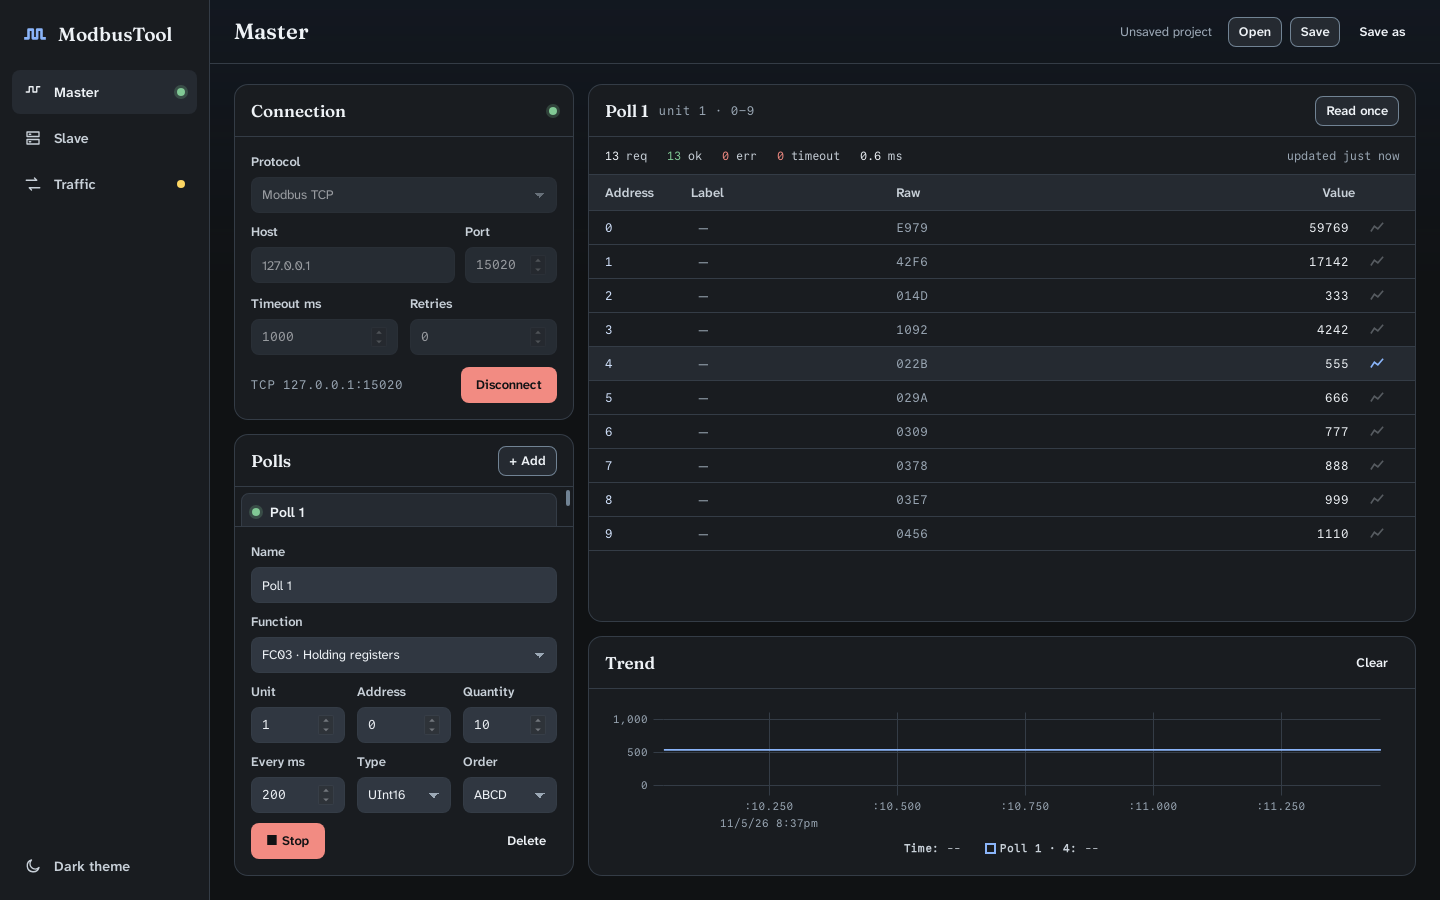
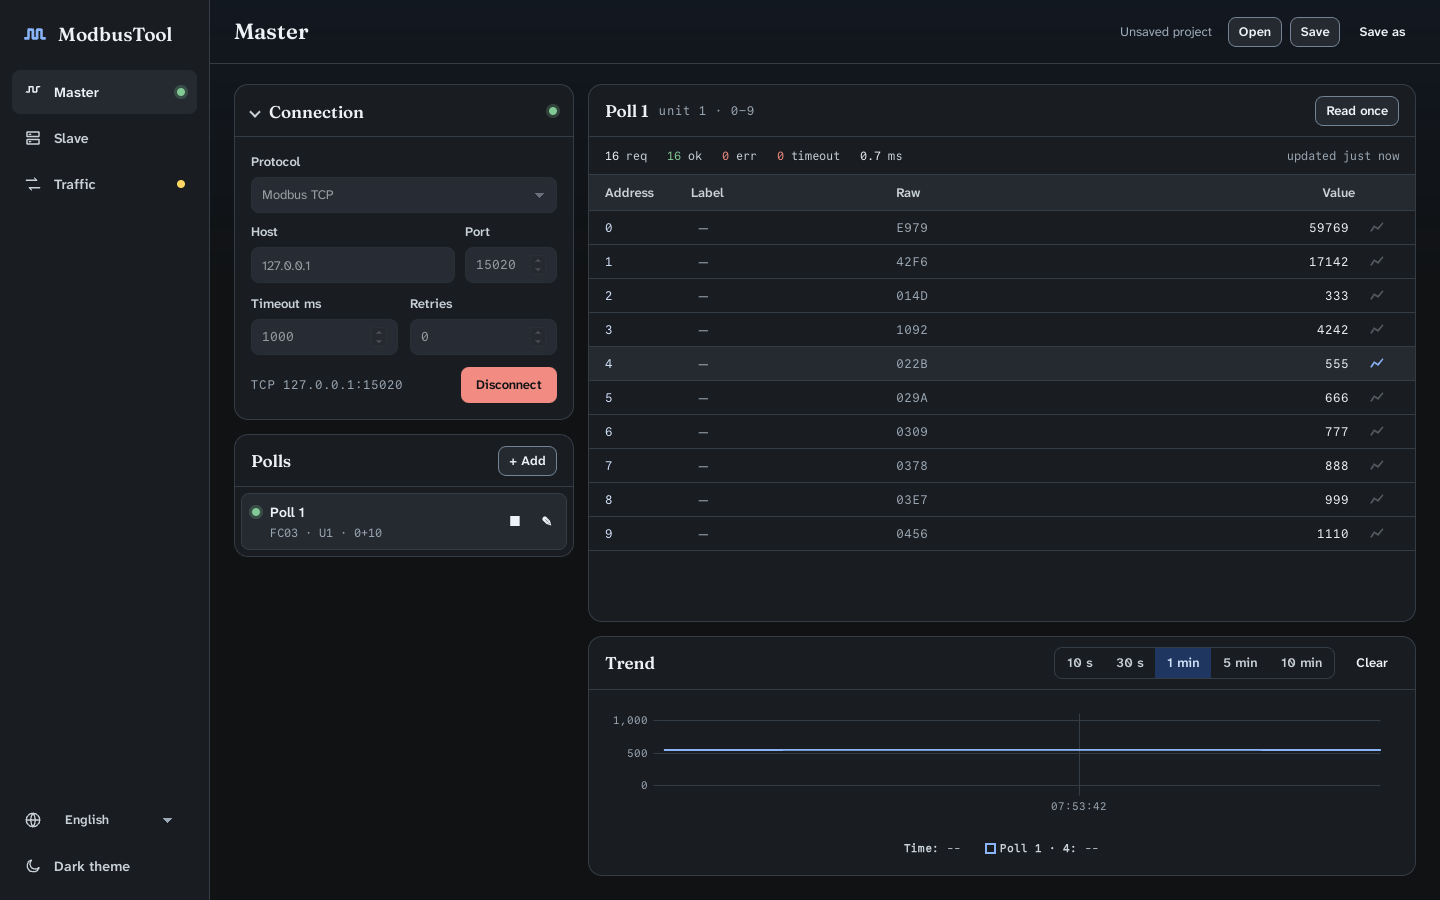
feat(trend): stepped samples, time window and a 24-hour time axis
A polled value holds until the next sample, but the chart joined samples
with straight lines: a square wave read once per level became a
triangle (user screenshot). Series are now drawn with uPlot's stepped
path builder.

The trend header offers a time window from 10 s to 10 min. History is
kept by time (10 minutes, the widest window) instead of 600 samples,
which at 200 ms lasted only 2 minutes. The time axis shows HH:MM:SS in
the interface language, with ticks on whole seconds so labels never
repeat. README screenshots regenerated by the E2E run.

Claude-Session: https://claude.ai/code/session_013Rdii6QU3MVeyCefPEk5AL

diff --git a/src/lib/components/TrendChart.svelte b/src/lib/components/TrendChart.svelte
@@ -8,6 +8,7 @@
 
   let host: HTMLDivElement;
   let plot: uPlot | null = null;
+  let clock: Intl.DateTimeFormat;
 
   const PALETTE_VARS = ["--color-ring", "--color-success", "--color-warning", "--color-danger", "--color-text-muted"];
 
@@ -26,7 +27,17 @@
     return uPlot.join(master.trend.map((s) => [s.times, s.values] as uPlot.AlignedData));
   }
 
+  const stepped = uPlot.paths.stepped!({ align: 1 });
+  // Tick steps in whole seconds: labels are HH:MM:SS, so finer steps would repeat a label.
+  const CLOCK_STEPS_S = [1, 2, 5, 10, 15, 30, 60, 120, 300, 600];
+
   function build() {
+    clock = new Intl.DateTimeFormat(currentLocale(), {
+      hour: "2-digit",
+      minute: "2-digit",
+      second: "2-digit",
+      hourCycle: "h23",
+    });
     plot?.destroy();
     const colors = palette();
     const style = getComputedStyle(document.documentElement);
@@ -44,18 +55,32 @@
         height: plotHeight(),
         legend: { show: true },
         cursor: { drag: { x: true, y: false } },
-        scales: { x: { time: true } },
+        scales: {
+          // The newest sample at the right edge, the chosen window to its left.
+          x: {
+            time: true,
+            range: (_u, min, max) => (max == null ? [min, max] : [Math.max(min, max - master.trendWindowS), max]),
+          },
+        },
         axes: [
-          { ...axis, space: 110 },
+          {
+            ...axis,
+            space: 90,
+            incrs: CLOCK_STEPS_S,
+            values: (_u, splits) => splits.map((t) => clock.format(t * 1000)),
+          },
           { ...axis, size: 64 },
         ],
         series: [
-          { label: m.trend_time() },
+          { label: m.trend_time(), value: (_u, t) => (t == null ? "--" : clock.format(t * 1000)) },
           ...master.trend.map((s, i) => ({
             label: s.label,
             stroke: colors[i % colors.length],
             width: 1.8,
             spanGaps: true,
+            // A polled value holds until the next sample: lines between samples would turn a
+            // square wave sampled once per level into a triangle.
+            paths: stepped,
             points: { show: false },
           })),
         ],
@@ -65,8 +90,10 @@
     );
   }
 
-  // Rebuild when the series, the theme or the language change; otherwise just push new data.
-  const signature = $derived(master.trend.map((s) => s.key).join("|") + app.theme + currentLocale());
+  // Rebuild when the series, the theme, the language or the window change; otherwise push new data.
+  const signature = $derived(
+    [master.trend.map((s) => s.key).join("|"), app.theme, currentLocale(), master.trendWindowS].join(" "),
+  );
   $effect(() => {
     void signature;
     untrack(build);

diff --git a/src/lib/state.test.ts b/src/lib/state.test.ts
@@ -13,7 +13,7 @@ import {
   toggleTrend,
   traffic,
   TRAFFIC_LIMIT,
-  TREND_POINTS,
+  TREND_RETENTION_S,
 } from "./state.svelte";
 
 const poll = (over: Partial<PollConfig> = {}): PollConfig => ({
@@ -39,9 +39,9 @@ const event = (n: number): TrafficEvent => ({
   message: null,
 });
 
-const result = (values: number[] | null, error: string | null = null, timeout = false) => ({
+const result = (values: number[] | null, error: string | null = null, timeout = false, timestampMs = 1000) => ({
   id: "p",
-  timestampMs: 1000,
+  timestampMs,
   values,
   error,
   timeout,
@@ -81,8 +81,11 @@ describe("state", () => {
     app.project.master.polls = [poll({ dataType: "int32" })];
     master.runtime.p = emptyRuntime(true);
     toggleTrend("p", 2, "x");
-    for (let i = 0; i < TREND_POINTS + 3; i++) applyPollResults([result([0, 0, 0xffff, 0xffff])]);
-    expect(master.trend[0].values).toHaveLength(TREND_POINTS);
+    // One sample a second for longer than the retention: only the last TREND_RETENTION_S remain.
+    for (let s = 0; s <= TREND_RETENTION_S + 5; s++)
+      applyPollResults([result([0, 0, 0xffff, 0xffff], null, false, s * 1000)]);
+    expect(master.trend[0].times[0]).toBe(5);
+    expect(master.trend[0].times).toHaveLength(TREND_RETENTION_S + 1);
     expect(master.trend[0].values[0]).toBe(-1);
     toggleTrend("p", 2, "x");
     expect(master.trend).toEqual([]);

diff --git a/src/lib/state.svelte.ts b/src/lib/state.svelte.ts
@@ -9,7 +9,9 @@ export type View = "master" | "slave" | "traffic";
 export type Theme = "dark" | "light";
 
 export const TRAFFIC_LIMIT = 5000;
-export const TREND_POINTS = 600;
+/** Trend history kept per series; also the widest time window offered. */
+export const TREND_RETENTION_S = 600;
+export const TREND_WINDOWS_S = [10, 30, 60, 300, TREND_RETENTION_S];
 
 export interface PollStats {
   requests: number;
@@ -52,6 +54,7 @@ export const master = $state({
   selectedPoll: null as string | null,
   runtime: {} as Record<string, PollRuntime>,
   trend: [] as TrendSeries[],
+  trendWindowS: 60,
 });
 
 export const slave = $state({
@@ -135,9 +138,10 @@ function appendTrend(pollId: string, timeMs: number, values: number[]): void {
     const value = bits ? registers[0] : numeric(registers, poll.dataType, poll.byteOrder);
     series.times.push(timeMs / 1000);
     series.values.push(value);
-    if (series.times.length > TREND_POINTS) {
-      series.times.splice(0, series.times.length - TREND_POINTS);
-      series.values.splice(0, series.values.length - TREND_POINTS);
+    const expired = series.times.findIndex((t) => t >= timeMs / 1000 - TREND_RETENTION_S);
+    if (expired > 0) {
+      series.times.splice(0, expired);
+      series.values.splice(0, expired);
     }
   }
 }

diff --git a/src/lib/components/MasterView.svelte b/src/lib/components/MasterView.svelte
@@ -5,7 +5,7 @@
   import PollList from "./PollList.svelte";
   import RegisterGrid from "./RegisterGrid.svelte";
   import TrendChart from "./TrendChart.svelte";
-  import { app, master, toggleTrend } from "../state.svelte";
+  import { app, master, toggleTrend, TREND_WINDOWS_S } from "../state.svelte";
   import { connect, disconnect, isWritable, labelFor, readOnce, setLabel, writeValues } from "../masterActions.svelte";
 
   const config = $derived(app.project.master.config);
@@ -100,6 +100,13 @@
     <header class="panel-head">
       <h2 class="panel-title">{m.trend_title()}</h2>
       <span class="spacer"></span>
+      <div class="segmented" role="group" aria-label={m.trend_window()}>
+        {#each TREND_WINDOWS_S as seconds (seconds)}
+          <button class:active={master.trendWindowS === seconds} onclick={() => (master.trendWindowS = seconds)}>
+            {seconds < 60 ? m.trend_seconds({ count: seconds }) : m.trend_minutes({ count: seconds / 60 })}
+          </button>
+        {/each}
+      </div>
       {#if master.trend.length}
         <button class="btn small ghost" onclick={() => (master.trend = [])}>{m.common_clear()}</button>
       {/if}

diff --git a/src/app.css b/src/app.css
@@ -300,6 +300,31 @@ input[type="checkbox"] {
   background: var(--color-surface-2);
 }
 
+.segmented {
+  display: inline-flex;
+  border: 1px solid var(--color-border);
+  border-radius: var(--radius-sm);
+  overflow: hidden;
+}
+
+.segmented button {
+  all: unset;
+  padding: 6px 12px;
+  font-size: 13px;
+  font-weight: 600;
+  color: var(--color-text-muted);
+  cursor: pointer;
+}
+
+.segmented button.active {
+  background: var(--color-accent);
+  color: var(--color-on-accent);
+}
+
+.segmented button:focus-visible {
+  box-shadow: inset 0 0 0 2px var(--color-ring);
+}
+
 .btn.icon {
   width: 30px;
   padding: 0;

diff --git a/src/lib/components/TrafficView.svelte b/src/lib/components/TrafficView.svelte
@@ -107,24 +107,8 @@
   .panel-head {
     flex-wrap: wrap;
   }
-  .segmented {
-    display: inline-flex;
-    border: 1px solid var(--color-border);
-    border-radius: var(--radius-sm);
-    overflow: hidden;
-  }
   .segmented button {
-    all: unset;
-    padding: 6px 12px;
-    font-size: 13px;
-    font-weight: 600;
     text-transform: capitalize;
-    color: var(--color-text-muted);
-    cursor: pointer;
-  }
-  .segmented button.active {
-    background: var(--color-accent);
-    color: var(--color-on-accent);
   }
   .check {
     display: inline-flex;

diff --git a/docs/superpowers/specs/2026-11-06-trend-design.md b/docs/superpowers/specs/2026-11-06-trend-design.md
@@ -1,0 +1,17 @@
+# Trend: valori campionati e finestra temporale
+
+Data: 2026-11-06. Stato: richiesta utente (onde quadre viste come triangoli, scala dei tempi).
+
+## Decisioni
+
+| # | Decisione | Fonte |
+|---|---|---|
+| T1 | Tracciato **a gradini** (`uPlot.paths.stepped`, `align: 1`): un valore letto da un poll vale fino al campione successivo. Le rette tra campioni trasformano un'onda quadra campionata una volta per livello in un triangolo | Misura 2026-11-06 sotto; uPlot 1.6.32 `SteppedPathBuilderOpts` |
+| T2 | **Finestra temporale** 10 s, 30 s, 1 min, 5 min, 10 min (`scale.range`: l'ultimo campione al bordo destro) | Richiesta utente |
+| T3 | Storico per serie a **tempo** (10 min, la finestra più ampia) invece di 600 campioni: a 200 ms 600 campioni erano 2 minuti e la finestra "10 min" avrebbe mostrato meno di quanto dice | — |
+| T4 | Asse dei tempi in HH:MM:SS a 24 ore nella lingua dell'interfaccia (`Intl.DateTimeFormat`), tacche a secondi interi | Il formato predefinito di uPlot era 12 h in inglese |
+
+## Cosa NON è dimostrato
+
+- Un segnale che cambia più in fretta dell'intervallo di poll resta sottocampionato: il trend
+  mostra ciò che il master ha letto, non il segnale (Nyquist). Non è un difetto del grafico.

diff --git a/docs/superpowers/verification/2026-11-06-trend.md b/docs/superpowers/verification/2026-11-06-trend.md
@@ -1,0 +1,17 @@
+# Verifica — trend a gradini e finestra temporale
+
+Data: 2026-11-06. Spec: `docs/superpowers/specs/2026-11-06-trend-design.md`.
+
+## Cosa è stato misurato
+
+- **App vera** (Linux): slave con generatore "Square" (periodo 1000 ms), master in loopback con
+  poll ogni 1000 ms, trend sul registro 0, finestra 30 s, 25 s di acquisizione. Prima: triangoli
+  (screenshot dell'utente). Dopo: onda quadra 0/100 con fronti verticali, asse 07:52:15 …
+  07:52:35.
+- **E2E** 17/17; screenshot del README rigenerati. Con meno di 2 s di dati le tacche erano
+  ripetute (07:52:52, 07:52:52): corretto limitando le tacche a secondi interi, misurato di nuovo.
+- **Unit test**: lo storico tiene gli ultimi 600 s (`state.test.ts`).
+
+## Cosa NON dimostra
+
+- Il rendering su Windows (WebView2).

diff --git a/CHANGELOG.md b/CHANGELOG.md
@@ -13,6 +13,9 @@ publishes the section whose heading matches the pushed `vX.Y.Z` tag. The full hi
 
 ### Changed
 
+- Trend: values are drawn as steps (a polled value holds until the next sample), so square waves
+  no longer look like triangles; time window 10 s to 10 min; 24-hour time axis. Each series keeps
+  the last 10 minutes instead of the last 600 samples.
 - The Connection (master) and Listener (slave) panels fold away by clicking their title.
 - Polls and simulation generators are edited in a dialog with Save and Cancel; the sidebar keeps
   a compact list. A running poll restarts once on save, only if what it reads changed.
